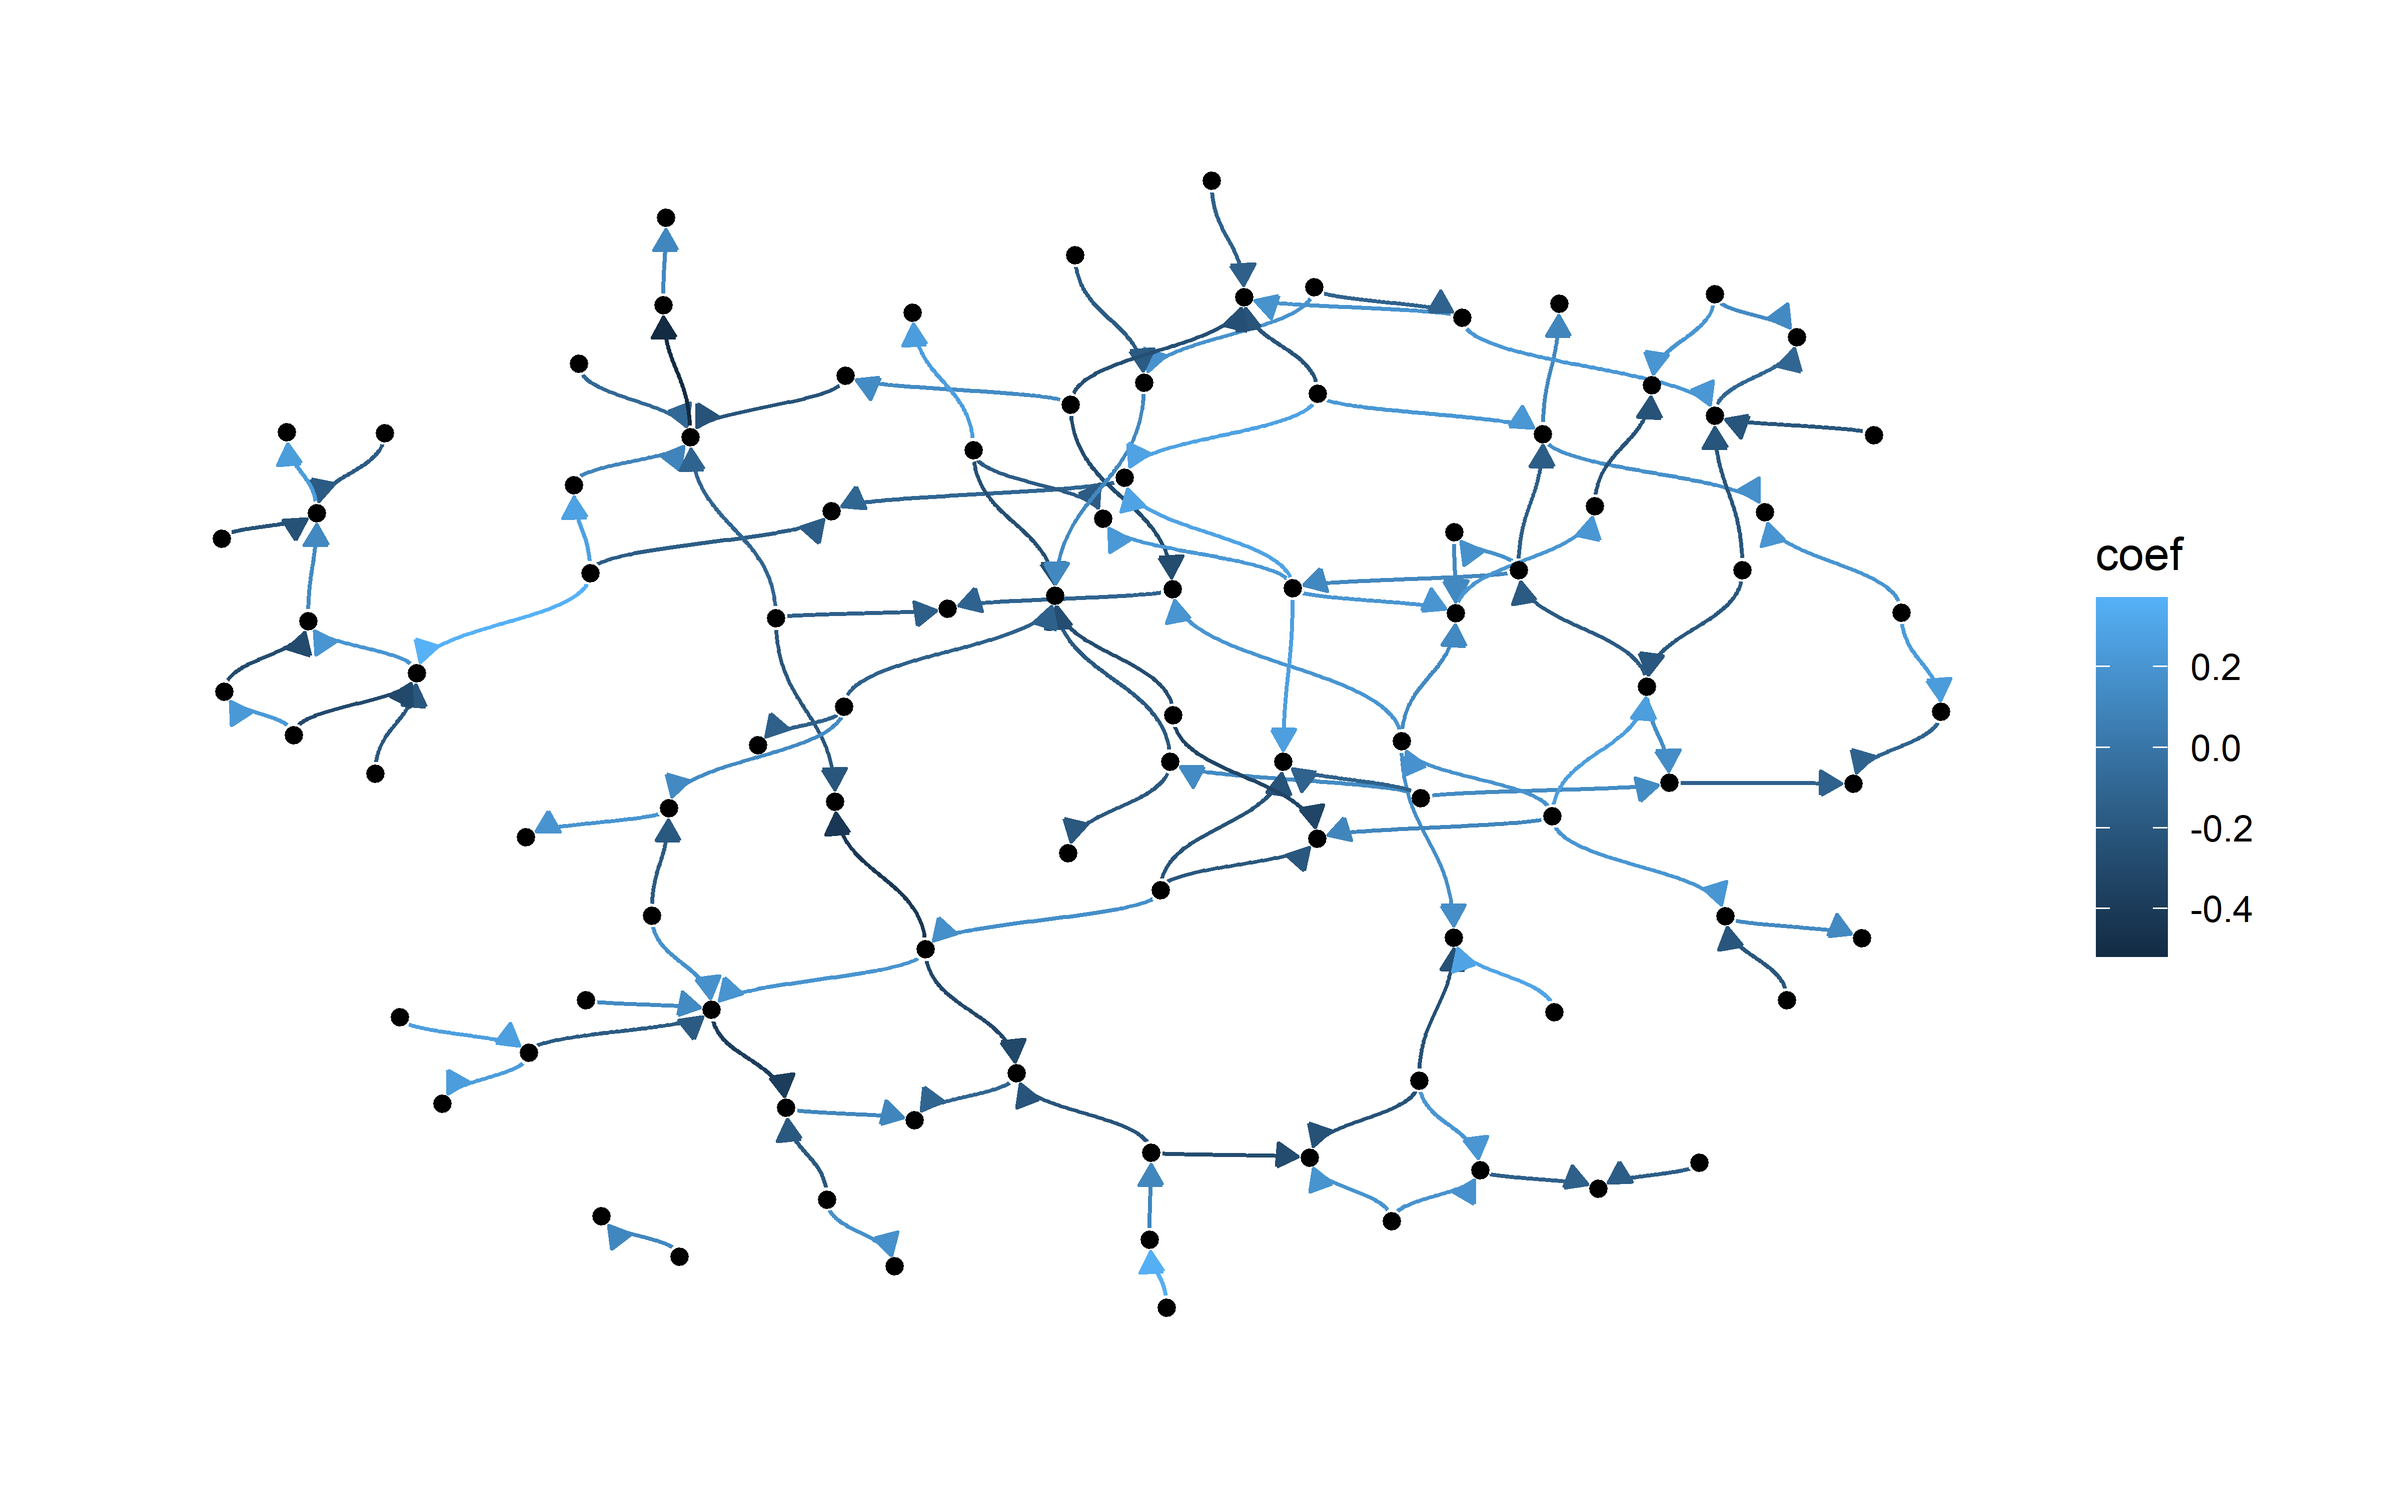
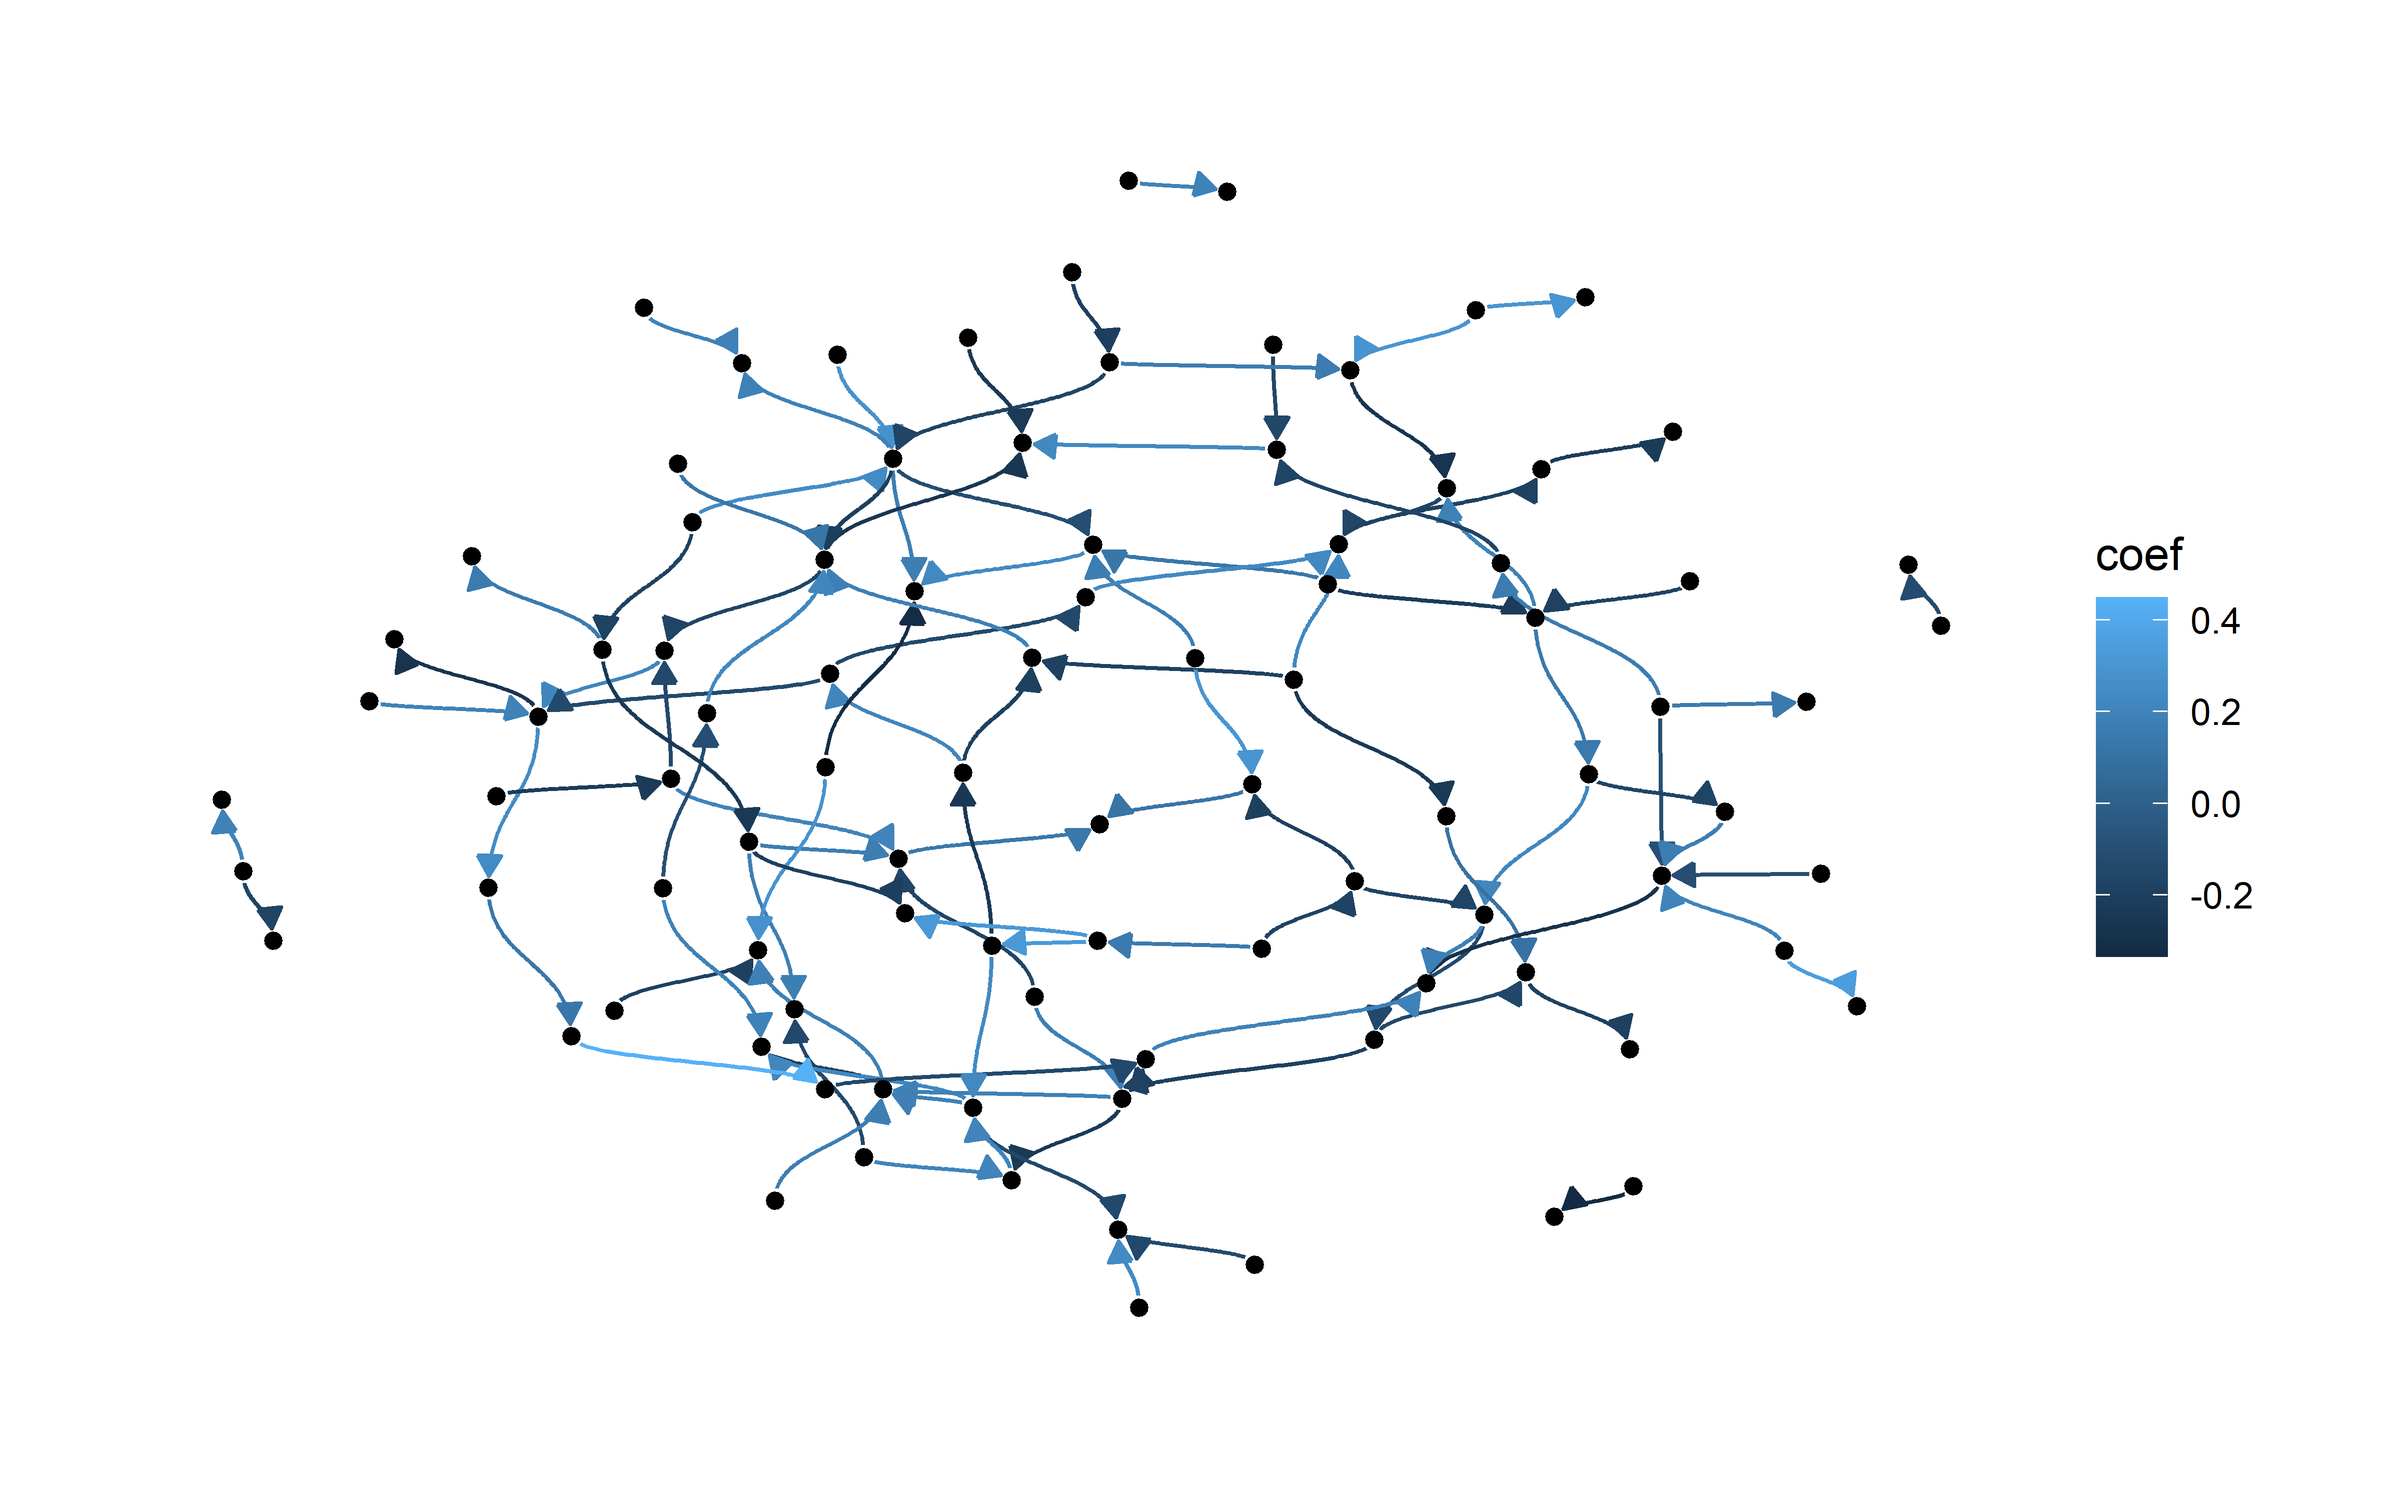
superCellMat

diff --git a/README.md b/README.md
@@ -57,3 +57,53 @@ plotAVN(gs2)
 ```
 
 <img src="man/figures/README-unnamed-chunk-4-1.png" width="2400" style="display: block; margin: auto;" />
+
+Celltype-specific bootstrapped networks.
+
+``` r
+sce <- mockSCE()
+sce2 <- mockSCE()
+sces <- list(sce, sce2)
+sces <- lapply(sces, function(x) logNormCounts(x))
+sces <- lapply(sces, function(x) {
+  colLabels(x) <- sample(c("Celltype_1","Celltype_2"), ncol(x), replace=TRUE)
+  return(x)})
+
+included_genes <- sample(row.names(sce), 50)
+booted <- lapply(sces, function(x) perLabelStruc(x, label_name = "Celltype_1",
+     algorithm.args=list("R"=10), barcode_column="row",
+     candidate_genes=included_genes, nonzero=0.5,
+     penalty="glmnet_CV.boot"))
+#> Celltype_1 
+#> Bootstrapping specified
+#> Celltype_1 
+#> Bootstrapping specified
+ce <- coreEdges(booted, "Celltype_1")
+ce
+#> # A tbl_graph: 33 nodes and 36 edges
+#> #
+#> # A directed simple graph with 4 components
+#> #
+#> # Node Data: 33 × 1 (active)
+#>    name     
+#>    <chr>    
+#>  1 Gene_0074
+#>  2 Gene_0918
+#>  3 Gene_0109
+#>  4 Gene_0306
+#>  5 Gene_1059
+#>  6 Gene_0280
+#>  7 Gene_1234
+#>  8 Gene_1917
+#>  9 Gene_0356
+#> 10 Gene_1562
+#> # ℹ 23 more rows
+#> #
+#> # Edge Data: 36 × 4
+#>    from    to strength direction
+#>   <int> <int>    <dbl>     <dbl>
+#> 1     1     2      0.7     0.714
+#> 2     3     4      0.7     0.786
+#> 3     3     2      0.9     0.667
+#> # ℹ 33 more rows
+```
